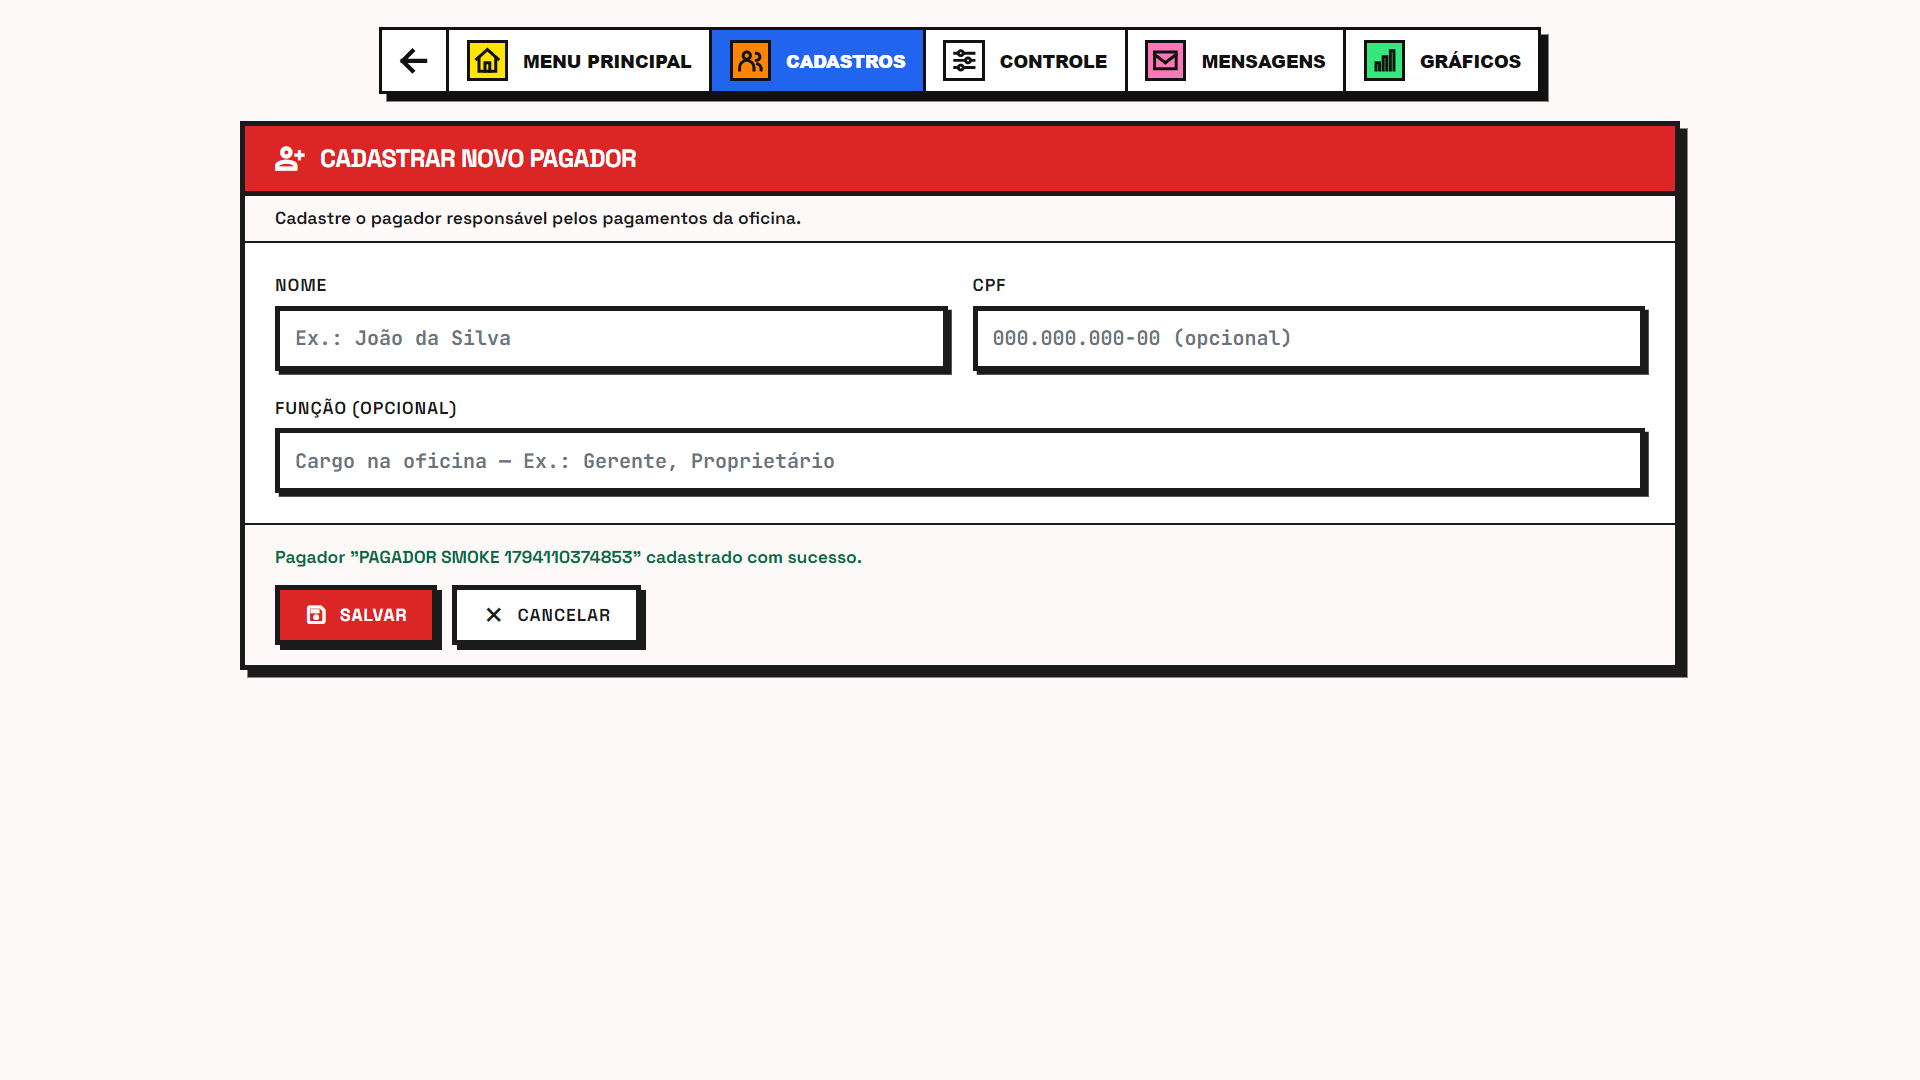
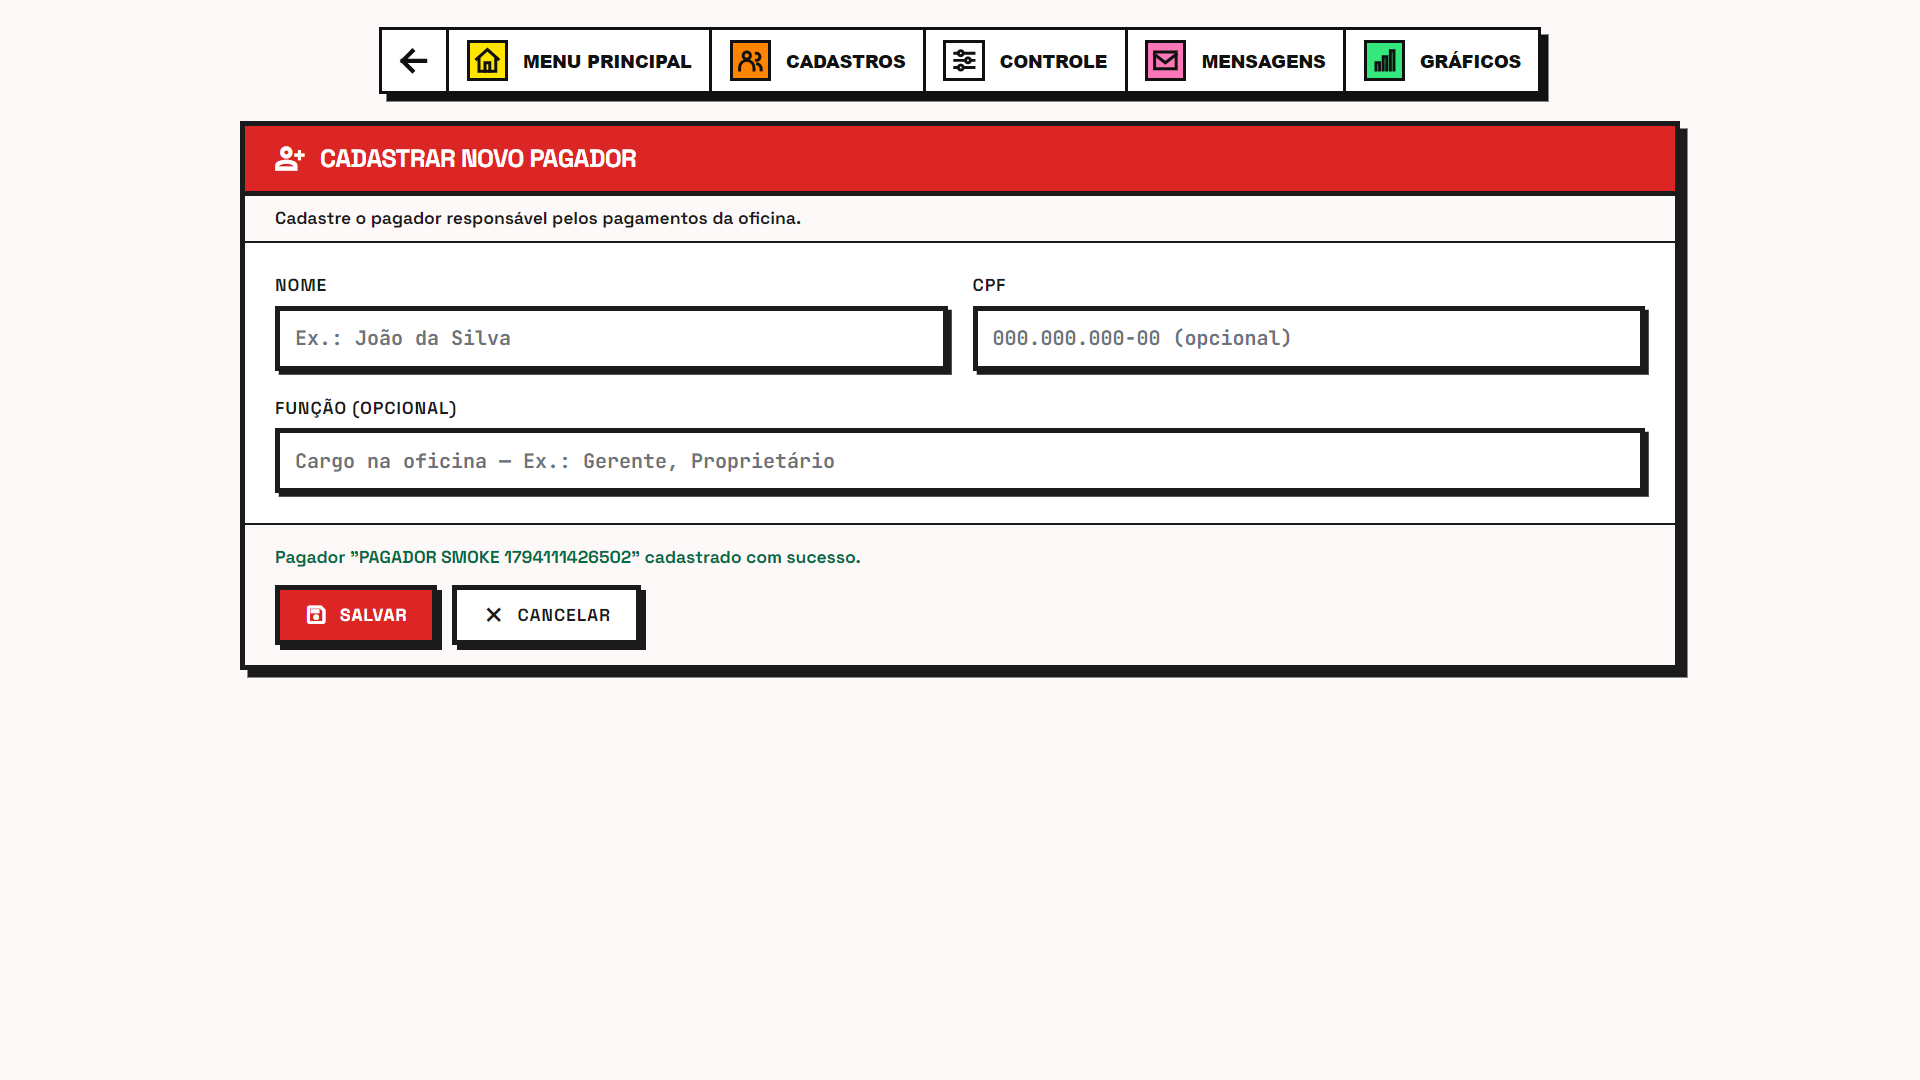
fix(navbar): botoes brancos por padrao e hover na cor do modulo respectivo do menu

Changed region(s): [[0.3438, 0.0306, 0.5, 0.0917], [0.2812, 0.4889, 0.4375, 0.5194]]

diff --git a/desktop/smoke.js b/desktop/smoke.js
@@ -444,7 +444,7 @@ async function executar() {
     JSON.stringify(ordem) === JSON.stringify(["voltar", "menu", "cadastros", "controle", "mensagens", "graficos"]),
     JSON.stringify(ordem)
   );
-  teste("Destaque ativo: CONTROLE em azul #2165EF", (await corBotaoNav("controle")) === "rgb(33, 101, 239)", await corBotaoNav("controle"));
+  teste("Botao CONTROLE com fundo branco por padrao", (await corBotaoNav("controle")) === "rgb(255, 255, 255)", await corBotaoNav("controle"));
 
   // GRÁFICOS = provisório; MENU PRINCIPAL navega; destinos a partir de tela profunda
   teste("Navbar GRÁFICOS responde (provisório)", await testarProvisorio('.nav-barra button[data-nav="graficos"]', "GRÁFICOS"));
@@ -453,9 +453,9 @@ async function executar() {
   teste("Navbar MENU PRINCIPAL navega ao Menu", await esperarTela("menu"));
   teste("Menu Principal aprovado permanece sem navbar", (await js("!!document.getElementById('nav-global')")) === false);
   teste("Pilha profunda: Menu → cadastros", await navegarPor('a[data-path="cadastros"]', "cadastros"));
-  teste("Destaque ativo: CADASTROS em azul #2165EF", (await corBotaoNav("cadastros")) === "rgb(33, 101, 239)");
+  teste("Botao CADASTROS com fundo branco por padrao", (await corBotaoNav("cadastros")) === "rgb(255, 255, 255)");
   teste("Pilha profunda: cadastros → novo-cadastro", await navegarPor('a[data-modulo="novo-cadastro"]', "novo-cadastro"));
-  teste("Destaque ativo em tela filha: CADASTROS (novo-cadastro)", (await corBotaoNav("cadastros")) === "rgb(33, 101, 239)");
+  teste("Botao CADASTROS branco tambem em tela filha", (await corBotaoNav("cadastros")) === "rgb(255, 255, 255)");
   await prepararPagina();
   await clicar('.nav-barra button[data-nav="controle"]');
   teste("Da tela profunda (novo-cadastro), CONTROLE navega direto", await esperarTela("controle"));
@@ -463,7 +463,7 @@ async function executar() {
   await prepararPagina();
   await clicar('.nav-barra button[data-nav="mensagens"]');
   teste("Da tela profunda, MENSAGENS navega direto", await esperarTela("mensagens"));
-  teste("Destaque ativo: MENSAGENS em azul #2165EF", (await corBotaoNav("mensagens")) === "rgb(33, 101, 239)");
+  teste("Botao MENSAGENS com fundo branco por padrao", (await corBotaoNav("mensagens")) === "rgb(255, 255, 255)");
   await prepararPagina();
   await clicar('.nav-barra button[data-nav="menu"]');
   teste("Da tela profunda, MENU PRINCIPAL navega direto", await esperarTela("menu"));
@@ -561,7 +561,7 @@ async function executar() {
     })`)
   );
   teste("Form Banco: campos, acoes e navbar presentes", Object.values(camposForm).every(Boolean), JSON.stringify(camposForm));
-  teste("Form Banco: destaque ativo CADASTROS na navbar", (await corBotaoNav("cadastros")) === "rgb(33, 101, 239)", await corBotaoNav("cadastros"));
+  teste("Form Banco: botao CADASTROS branco na navbar", (await corBotaoNav("cadastros")) === "rgb(255, 255, 255)", await corBotaoNav("cadastros"));
 
   await clicar("#btn-salvar");
   await esperar(400);
@@ -681,7 +681,7 @@ async function executar() {
     })`)
   );
   teste("Form Pagador: campos, acoes e navbar presentes", Object.values(camposPagador).every(Boolean), JSON.stringify(camposPagador));
-  teste("Form Pagador: destaque ativo CADASTROS na navbar", (await corBotaoNav("cadastros")) === "rgb(33, 101, 239)", await corBotaoNav("cadastros"));
+  teste("Form Pagador: botao CADASTROS branco na navbar", (await corBotaoNav("cadastros")) === "rgb(255, 255, 255)", await corBotaoNav("cadastros"));
 
   await clicar("#btn-salvar");
   await esperar(400);
@@ -763,7 +763,7 @@ async function executar() {
     })`)
   );
   teste("Form Empresa: campos, acoes e navbar presentes", Object.values(camposEmpresa).every(Boolean), JSON.stringify(camposEmpresa));
-  teste("Form Empresa: destaque ativo CADASTROS na navbar", (await corBotaoNav("cadastros")) === "rgb(33, 101, 239)", await corBotaoNav("cadastros"));
+  teste("Form Empresa: botao CADASTROS branco na navbar", (await corBotaoNav("cadastros")) === "rgb(255, 255, 255)", await corBotaoNav("cadastros"));
 
   await clicar("#btn-salvar");
   await esperar(400);

diff --git a/desktop/smoke-real.js b/desktop/smoke-real.js
@@ -6,6 +6,7 @@
 const { app, screen, BrowserWindow } = require("electron");
 const { execFileSync, spawnSync } = require("child_process");
 const path = require("path");
+const fs = require("fs");
 require("./main.js");
 
 let janela = null;
@@ -177,6 +178,34 @@ async function ciclo() {
   const aberto = await js(`JSON.stringify([...document.querySelectorAll('.form-campo')].map(el => { const r = el.getBoundingClientRect(); return [+r.x.toFixed(1), +r.y.toFixed(1), +r.width.toFixed(1), +r.height.toFixed(1)]; }))`);
   teste("Campos dos forms nao se movem com o menu aberto (480x800)", antes === aberto, `${antes} vs ${aberto}`);
   await janela.setSize(1500, 950);
+
+  // 9. hover real: botao fica branco por padrao e pinta com a cor do
+  //    botao respectivo da tela do Menu
+  await js("window.finDesk.navegar('controle')");
+  await esperarPredicado(`document.body.dataset.tela === 'controle' && document.body.dataset.pronto === 'true'`);
+  await esperar(400);
+  const corPadrao = await js(`getComputedStyle(document.querySelector('.nav-barra button[data-nav="cadastros"]')).backgroundColor`);
+  teste("Botao CADASTROS branco por padrao (sem cor fixa)", corPadrao === "rgb(255, 255, 255)", corPadrao);
+
+  const pCad = await pontoRealDoSeletor('.nav-barra button[data-nav="cadastros"]');
+  entradaReal("mover", pCad);
+  await esperar(500);
+  const corHoverCad = await js(`getComputedStyle(document.querySelector('.nav-barra button[data-nav="cadastros"]')).backgroundColor`);
+  teste("Hover real CADASTROS pinta com a cor do Menu (#FF8400)", corHoverCad === "rgb(255, 132, 0)", corHoverCad);
+  const imagemHover = await janela.webContents.capturePage();
+  fs.writeFileSync(path.join(__dirname, "..", "docs", "responsivo", "nav-hover-cadastros.png"), imagemHover.toPNG());
+
+  const pControle = await pontoRealDoSeletor('.nav-barra button[data-nav="controle"]');
+  entradaReal("mover", pControle);
+  await esperar(500);
+  const corHoverControle = await js(`getComputedStyle(document.querySelector('.nav-barra button[data-nav="controle"]')).backgroundColor`);
+  teste("Hover real CONTROLE pinta com a cor do Menu (#38BDF8)", corHoverControle === "rgb(56, 189, 248)", corHoverControle);
+
+  const pFora = await pontoRealDoSeletor("main");
+  entradaReal("mover", pFora);
+  await esperar(500);
+  const corAposSair = await js(`getComputedStyle(document.querySelector('.nav-barra button[data-nav="cadastros"]')).backgroundColor`);
+  teste("Ao sair do hover o botao volta ao branco", corAposSair === "rgb(255, 255, 255)", corAposSair);
 }
 
 async function main() {

diff --git a/frontend/ts/navbar.ts b/frontend/ts/navbar.ts
@@ -101,12 +101,11 @@ function iconeHtml(nome: string, classe: string): string {
 }
 
 function botaoBarraHtml(item: ItemNav, ativo: boolean): string {
-  const classeAtivo = ativo ? " ativo" : "";
   const atual = ativo ? ' aria-current="page"' : "";
   if (item.chave === "voltar") {
-    return `<button class="nav-item nav-voltar${classeAtivo}" type="button" data-nav="${item.chave}" aria-label="Voltar"${atual}><svg viewBox="0 0 24 24" aria-hidden="true">${item.svg}</svg></button>`;
+    return `<button class="nav-item nav-voltar" type="button" data-nav="${item.chave}" aria-label="Voltar"${atual}><svg viewBox="0 0 24 24" aria-hidden="true">${item.svg}</svg></button>`;
   }
-  return `<button class="nav-item${classeAtivo}" type="button" data-nav="${item.chave}"${atual}><span class="nav-icone ${item.quadrado}"><svg viewBox="0 0 24 24" aria-hidden="true">${item.svg}</svg></span><span>${item.rotulo}</span></button>`;
+  return `<button class="nav-item" type="button" data-nav="${item.chave}"${atual}><span class="nav-icone ${item.quadrado}"><svg viewBox="0 0 24 24" aria-hidden="true">${item.svg}</svg></span><span>${item.rotulo}</span></button>`;
 }
 
 function itemPainelHtml(item: ItemNav, ativo: boolean): string {

diff --git a/frontend/css/tailwind.input.css b/frontend/css/tailwind.input.css
@@ -205,16 +205,29 @@
   background: #35e87d;
 }
 
-/* BOTAO ATIVO */
+/* HOVER: cor do botao respectivo da tela do Menu (fundos brancos por padrao) */
 
-.barra-navegacao .nav-item.ativo {
-  background: #2165ef;
-  color: #ffffff;
+.barra-navegacao .nav-item[data-nav="menu"]:hover {
+  background: #ffe600;
 }
 
-/* HOVER */
+.barra-navegacao .nav-item[data-nav="cadastros"]:hover {
+  background: #ff8400;
+}
 
-.barra-navegacao .nav-item:not(.ativo):hover {
+.barra-navegacao .nav-item[data-nav="controle"]:hover {
+  background: #38bdf8;
+}
+
+.barra-navegacao .nav-item[data-nav="mensagens"]:hover {
+  background: #ff5e89;
+}
+
+.barra-navegacao .nav-item[data-nav="graficos"]:hover {
+  background: #00ff66;
+}
+
+.barra-navegacao .nav-item[data-nav="voltar"]:hover {
   background: #eeeeee;
 }
 

diff --git a/.memory-bank/activeContext.md b/.memory-bank/activeContext.md
@@ -1,16 +1,14 @@
 # Active Context
 
 ## Foco Atual
-**Navbar desktop redesenhada (design de referência do usuário) — aguardando validação visual**
-(branch `feature/entrega-3.1-sqlite-banco`, commits locais, push da rama feito antes; este novo
-trabalho NÃO publicado, `main` intacta). Barra única unida: borda preta 3px, sombra rígida 6px,
-VOLTAR só seta, quadrados de ícones 33px (amarelo/laranja/branco/rosa/verde), módulo ativo
-azul `#2165EF` com texto branco, ordem VOLTAR→MENU→CADASTROS→CONTROLE→MENSAGENS→GRÁFICOS.
-Adaptado em `navbar.ts` (componente global; mesma navegação/histórico/data-nav). Breakpoint da
-barra 851px (abaixo: hambúrguer preservado). Itens compactos em páginas de 2 botões (wrap 56rem)
-para não estourar largura. Testes: smoke 246/246, smoke-real APROVADO, smoke-boot APROVADO.
-Aguardando validação visual do usuário (referência visual = imagem; comparação feita pelo código
-fornecido, já que o modelo não lê imagens).
+**Navbar desktop: botões brancos por padrão + hover na cor do módulo do Menu — aguardando validação**
+(branch `feature/entrega-3.1-sqlite-banco`, commit local, NENHUM push, `main` intacta). Removido o
+preenchimento azul fixo do módulo ativo (o CADASTROS ficava constantemente azul nas telas-filhas);
+agora todo botão tem fundo branco e o hover pinta com a cor do botão respectivo da tela do Menu
+(MENU PRINCIPAL `#FFE600`, CADASTROS `#FF8400`, CONTROLE `#38BDF8`, MENSAGENS `#FF5E89`,
+GRÁFICOS `#00FF66`, VOLTAR neutro `#eee`). Hover validado com mouse REAL do Windows.
+Testes: smoke 246/246, smoke-real 2 ciclos APROVADO (inclui hover real + captura
+`nav-hover-cadastros.png`). Aguardando validação visual.
 
 ## ETAPA 1 — Causa raiz dos inputs não clicáveis (2026-11-07)
 - **Sintoma:** formulários renderizavam mas nenhum clique/digitação/cursor funcionava; alt-tab

diff --git a/.memory-bank/progress.md b/.memory-bank/progress.md
@@ -126,3 +126,12 @@
 - [x] Regressões: smoke 246/246 (ordem, destaque ativo, breakpoints, overflow), smoke-real
       APROVADO, smoke-boot APROVADO; capturas nav-{1920x1080,1536x864,1280x720,960x540} + compacto
 - [ ] Aguardando validação visual do usuário
+
+## Navbar: hover por módulo, sem cor fixa (2026-11-08)
+- [x] Removido o azul fixo do módulo ativo (CADASTROS ficava constantemente azul nas telas-filhas);
+      botões agora BRANCOS por padrão e hover pinta com a cor do botão respectivo do Menu
+      (MENU `#FFE600`, CADASTROS `#FF8400`, CONTROLE `#38BDF8`, MENSAGENS `#FF5E89`, GRÁFICOS
+      `#00FF66`, VOLTAR neutro) — CSS por `data-nav`, `aria-current` mantido sem efeito visual
+- [x] Hover verificado com mouse REAL do Windows (smoke-real): branco → cor no hover → branco ao
+      sair; captura `nav-hover-cadastros.png`; smoke 246/246 + smoke-real 2 ciclos APROVADO
+- [ ] Aguardando validação visual do usuário
